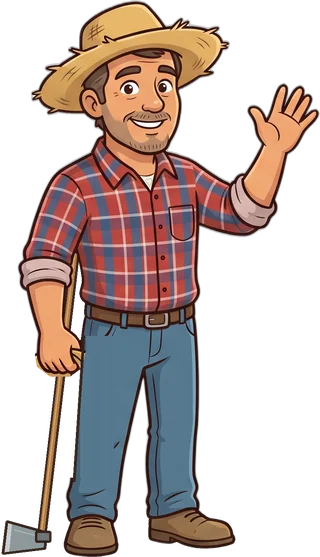
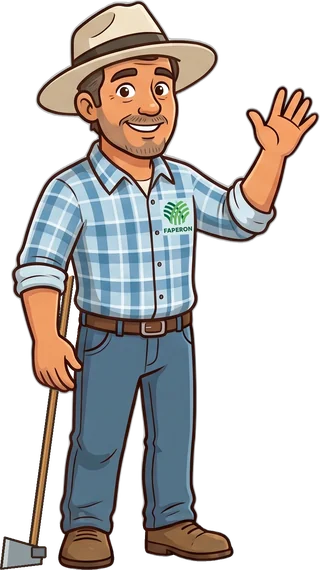
feat(web): Zétele com a camisa da FAPERON nas três poses
Arte nova recortada pelo mesmo script (320 px, WebP); a pose acenando mantém
a enxada, agora com a mão aberta sobre o cabo. A limpeza da máscara passa a
fechar tudo dentro da silhueta, menos o fundo branco puro entre braço e tronco
(o chapéu bege saía furado).

diff --git a/apps/web/scripts/recortar-zetele.py b/apps/web/scripts/recortar-zetele.py
@@ -1,5 +1,5 @@
 """Recorta as 3 poses do Zétele da arte original, remove o fundo e grava em public/zetele/.
-Na pose acenando, troca o chapéu que ele segura por uma enxada desenhada no mesmo traço.
+Arte atual: Zétele com a camisa da FAPERON. Na pose acenando, desenha uma enxada no mesmo traço.
 
 Uso (raiz do repo):
   uv run --with pillow --with scipy --with "rembg[cpu]==2.0.85" \\
@@ -39,24 +39,23 @@ def recortar(pose: Image.Image, mascara: Image.Image) -> Image.Image:
     """Aplica a máscara do rembg corrigindo o que o u2net erra nesta arte."""
     rgb = np.asarray(pose).astype(int)
     bruta = np.asarray(mascara)
-    claro = rgb.min(axis=-1) >= 225
+    # Fundo da arte é branco puro; o bege do chapéu e o xadrez claro da camisa ficam abaixo disso.
+    branco = rgb.min(axis=-1) >= 250
 
     # Só o maior pedaço é o Zétele: folha ou trator que entre na caixa fica de fora.
     rotulos, areas = rotulos_por_area(bruta >= 128)
     corpo = rotulos == areas[1:].argmax() + 1
     alfa = np.where(ndimage.binary_dilation(corpo, iterations=3), bruta, 0)
 
-    # O u2net deixa o corpo levemente translúcido e vaza detalhes claros pequenos (decote):
-    # o miolo e os buracos pequenos voltam opacos.
-    rotulos, areas = rotulos_por_area(ndimage.binary_fill_holes(corpo) & ~corpo)
-    opaco = ndimage.binary_erosion(corpo, iterations=2)
-    opaco |= (areas < AREA_DETALHE)[rotulos] & (rotulos > 0)
+    # O u2net deixa partes claras translúcidas ou furadas (decote, chapéu bege): dentro da
+    # silhueta tudo volta opaco, menos o fundo visto entre braço e tronco, que é mancha grande
+    # de branco puro.
+    silhueta = ndimage.binary_fill_holes(corpo)
+    rotulos, areas = rotulos_por_area(branco & silhueta)
+    vao = ndimage.binary_dilation((areas >= AREA_DETALHE)[rotulos] & (rotulos > 0), iterations=2)
+    opaco = ndimage.binary_erosion(silhueta, iterations=2) & ~vao
     alfa[opaco] = 255
-
-    # E toma por corpo o fundo cercado pelo braço: mancha clara grande dentro do corpo é fundo.
-    rotulos, areas = rotulos_por_area(claro & corpo)
-    vao = (areas >= AREA_DETALHE)[rotulos] & (rotulos > 0)
-    alfa[ndimage.binary_dilation(vao, iterations=2)] = 0
+    alfa[vao] = 0
 
     # Sombra do chão: cinza claro sem saturação junto das botas (que são marrons).
     linhas = np.nonzero(corpo.any(axis=1))[0]
@@ -70,53 +69,38 @@ def recortar(pose: Image.Image, mascara: Image.Image) -> Image.Image:
     return Image.fromarray(np.dstack([cor, alfa]).astype(np.uint8), "RGBA")
 
 
-# Coordenadas da troca chapéu → enxada, pensadas na largura final (LARGURA = 320).
+# Coordenadas da enxada, pensadas na largura final (LARGURA = 320) da pose acenando.
 REF = 320
+FOLGA = 20  # à esquerda, para a lâmina caber
 
 
-def trocar_chapeu_por_enxada(img: Image.Image) -> Image.Image:
+def segurar_enxada(img: Image.Image) -> Image.Image:
+    """Enxada desenhada no mesmo traço, atrás do personagem: a mão aberta repousa sobre o cabo
+    e a lâmina fica rente ao chão, ao lado da bota."""
     s = img.width / REF
-    p = lambda x, y: (x * s, y * s)
-    a = np.asarray(img.convert("RGBA")).copy()
-    h, w = a.shape[:2]
-
-    # 1) a mão fecha sobre a aba: ela fica; o resto do chapéu sai
-    mao = Image.new("L", (w, h), 0)
-    ImageDraw.Draw(mao).polygon([p(34, 314), p(86, 314), p(86, 350), p(82, 368), p(70, 377), p(50, 377), p(37, 367), p(33, 340)], fill=255)
-    mao_arr = np.asarray(mao) > 0
-    ys, xs = np.mgrid[0:h, 0:w]
-    y320, x320 = ys / s, xs / s
-    borda = 84 - (y320 - 336) * (10 / 142)  # contorno esquerdo da perna esquerda
-    regiao = (y320 >= 336) & (y320 <= 478) & (x320 <= 114) & ~mao_arr
-    perna = regiao & (x320 > borda)
-    fora = regiao & ~perna
-
-    # 2) a calça coberta pelo chapéu volta com a textura da própria perna logo abaixo
-    linha_fonte = int(482 * s)
-    a[perna] = a[linha_fonte, xs[perna]]
-    a[fora, 3] = 0
-
-    img2 = Image.fromarray(a, "RGBA")
-    d2 = ImageDraw.Draw(img2)
+    p = lambda x, y: ((x + FOLGA) * s, y * s)
     contorno = (52, 36, 28, 255)
-    d2.line([p(84, 336), p(74, 482)], fill=contorno, width=round(2.6 * s))
-
-    # 3) enxada atrás do personagem: o cabo some atrás do braço e aparece no punho fechado
-    enxada = Image.new("RGBA", (w, h), (0, 0, 0, 0))
-    d = ImageDraw.Draw(enxada)
-    topo, base = p(80, 210), p(41, 540)
-    d.line([topo, base], fill=contorno, width=round(9.4 * s))
-    d.line([topo, base], fill=(176, 122, 69, 255), width=round(5 * s))
-    d.line([p(79.2, 214), p(41.6, 530)], fill=(214, 160, 98, 255), width=round(1.4 * s))
-    # lâmina da enxada: estreita junto ao olho, larga no fio (à esquerda, rente ao chão)
-    lamina = [p(46, 533), p(7, 522), p(3, 554), p(45, 549)]
+    lona = Image.new("RGBA", (img.width + int(FOLGA * s), img.height + int(4 * s)), (0, 0, 0, 0))
+    d = ImageDraw.Draw(lona)
+    topo, base = (66, 250), (22, 572)
+    d.line([p(*topo), p(*base)], fill=contorno, width=round(9.4 * s))
+    d.line([p(*topo), p(*base)], fill=(176, 122, 69, 255), width=round(5 * s))
+    d.line([p(65.2, 254), p(22.6, 562)], fill=(214, 160, 98, 255), width=round(1.4 * s))  # brilho
+    ox, oy = base[0] + 5, base[1] - 7  # olho da enxada, logo acima da ponta do cabo
+    lamina = [p(ox + 6, oy + 2), p(ox - 33, oy - 9), p(ox - 37, oy + 23), p(ox + 5, oy + 18)]
     d.polygon(lamina, fill=(142, 152, 156, 255))
-    d.polygon([p(7, 522), p(12, 523), p(9, 554), p(3, 554)], fill=(198, 206, 208, 255))  # fio afiado
-    d.line([p(14, 530), p(40, 537)], fill=(170, 180, 183, 255), width=round(1.4 * s))  # brilho
+    fio = [p(ox - 33, oy - 9), p(ox - 28, oy - 8), p(ox - 31, oy + 23), p(ox - 37, oy + 23)]
+    d.polygon(fio, fill=(198, 206, 208, 255))
     d.line(lamina + [lamina[0]], fill=contorno, width=round(2.6 * s), joint="curve")
-    d.rounded_rectangle([p(35, 531), p(51, 543)], radius=2 * s, fill=(110, 118, 122, 255), outline=contorno, width=round(2.2 * s))  # olho da enxada
-    enxada.alpha_composite(img2)
-    return enxada
+    d.rounded_rectangle(
+        [p(ox - 6, oy), p(ox + 10, oy + 12)],
+        radius=2 * s,
+        fill=(110, 118, 122, 255),
+        outline=contorno,
+        width=round(2.2 * s),
+    )
+    lona.alpha_composite(img, (int(FOLGA * s), 0))
+    return lona.crop(lona.getbbox())
 
 
 def main(arte: Path) -> None:
@@ -132,8 +116,8 @@ def main(arte: Path) -> None:
         recorte = recortar(pose, mascara)
         recorte = recorte.crop(recorte.getbbox())
         if nome == "acenando":
-            # pedido do usuário (17/10/2026): sai o chapéu da mão, entra uma enxada
-            recorte = trocar_chapeu_por_enxada(recorte)
+            # pedido do usuário (17/10/2026): o Zétele acenando segura uma enxada
+            recorte = segurar_enxada(recorte)
         altura = round(recorte.height * LARGURA / recorte.width)
         final = recorte.resize((LARGURA, altura), Image.Resampling.LANCZOS)
         png = DESTINO / f"{nome}.png"

diff --git a/docs/erros-conhecidos/dificuldades.md b/docs/erros-conhecidos/dificuldades.md
@@ -277,3 +277,9 @@ Registro cronológico por área, atualizado em 24/09/2026. Cada entrada tem sint
 - **Solução ou contorno:** `apps/web/scripts/recortar-zetele.py` fixa `u2net` e limpa a máscara (maior componente, buracos pequenos, vão do braço).
 - **Status:** resolvido.
 
+
+### Chapéu bege furado no recorte da arte nova do Zétele (camisa FAPERON)
+- **Sintoma:** com a arte nova, o chapéu claro saiu com furos e manchas translúcidas; a regra antiga só fechava buracos com menos de 2.000 px.
+- **Causa:** o `u2net` dá máscara parcial em áreas claras grandes dentro da figura; a regra do "vão do braço" (pixel com mínimo ≥ 225) também não distinguia fundo de bege claro.
+- **Solução ou contorno:** `recortar()` agora deixa opaco tudo dentro da silhueta preenchida, menos manchas grandes de branco puro (mínimo do canal ≥ 250), que são o fundo visível entre braço e tronco. Conferir sempre o recorte sobre fundo magenta e escuro antes de publicar.
+- **Status:** resolvido.
